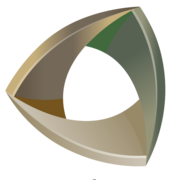
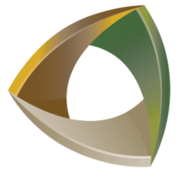
Actualicé logotipos.

diff --git a/tag/sesiones2.html b/tag/sesiones2.html
@@ -3,24 +3,25 @@
 <head>
     <meta charset="utf-8">
     <meta name="viewport" content="width=device-width, initial-scale=1, shrink-to-fit=no">
-    <meta name="description" content="<p>En la reunión de la Comisión Ejecutiva se trabajó en los avances de los proyectos en materia anticorrupción, así como los temas vistos en la Reunión de Consejeros de los Sistemas Locales Anticorrupción del país.</p>">
-    <meta name="keywords" content="[<Tag 'Comisión Ejecutiva'>, <Tag 'Sesiones'>]">
+    <meta name="description" content="Índice de publicaciones.">
+    <meta name="keywords" content="">
     <meta name="author" content="SEA Coahuila">
-    <meta itemprop="name" content="Cuarta Sesión Extraordinaria 2018 de la Comisión Ejecutiva">
-    <meta itemprop="description" content="<p>En la reunión de la Comisión Ejecutiva se trabajó en los avances de los proyectos en materia anticorrupción, así como los temas vistos en la Reunión de Consejeros de los Sistemas Locales Anticorrupción del país.</p>">
+    <meta itemprop="name" content="Índice - Sistema Anticorrupción del Estado de Coahuila de Zaragoza">
+    <meta itemprop="description" content="Índice de publicaciones.">
     <meta itemprop="image" content="http://www.seacoahuila.org.mx/theme/images/saec.png">
     <meta name="twitter:card" content="summary_large_image">
     <meta name="twitter:site" content="@sesaecoah">
-    <meta name="twitter:title" content="Cuarta Sesión Extraordinaria 2018 de la Comisión Ejecutiva">
-    <meta name="twitter:description" content="<p>En la reunión de la Comisión Ejecutiva se trabajó en los avances de los proyectos en materia anticorrupción, así como los temas vistos en la Reunión de Consejeros de los Sistemas Locales Anticorrupción del país.</p>">
+    <meta name="twitter:title" content="Índice - Sistema Anticorrupción del Estado de Coahuila de Zaragoza">
+    <meta name="twitter:description" content="Índice de publicaciones.">
     <meta name="twitter:image:src" content="http://www.seacoahuila.org.mx/theme/images/saec.png">
-    <meta property="og:title" content="Cuarta Sesión Extraordinaria 2018 de la Comisión Ejecutiva">
+    <meta property="og:title" content="Índice - Sistema Anticorrupción del Estado de Coahuila de Zaragoza">
     <meta property="og:type" content="article">
-    <meta property="og:url" content="comunicados/2018-06-20-reunion-comision-ejecutiva/">
+    <meta property="og:url" content="http://www.seacoahuila.org.mx/tag/sesiones2.html">
     <meta property="og:image" content="http://www.seacoahuila.org.mx/theme/images/saec.png">
-    <meta property="og:description" content="<p>En la reunión de la Comisión Ejecutiva se trabajó en los avances de los proyectos en materia anticorrupción, así como los temas vistos en la Reunión de Consejeros de los Sistemas Locales Anticorrupción del país.</p>">
+    <meta property="og:description" content="Índice de publicaciones.">
     <meta property="og:site_name" content="Sistema Anticorrupción del Estado de Coahuila de Zaragoza">
-    <title>Cuarta Sesión Extraordinaria 2018 de la Comisión Ejecutiva - Sistema Anticorrupción del Estado de Coahuila de Zaragoza</title>
+    <title>    Sesiones - Sistema Anticorrupción del Estado de Coahuila de Zaragoza
+</title>
     <link rel="shortcut icon" type="image/x-icon" href="http://www.seacoahuila.org.mx/favicon.ico">
     <link rel="icon" href="http://www.seacoahuila.org.mx/theme/images/icon-hires.png" sizes="192x192">
     <link rel="icon" href="http://www.seacoahuila.org.mx/theme/images/icon-normal.png" sizes="128x128">
@@ -97,68 +98,82 @@
             </div>
         </div>
     </nav>    <header>
-    <div class="header-content saec-header-bg">
-        <img src="http://www.seacoahuila.org.mx/theme/images/saec-300x255.png" alt="Sistema Anticorrupción del Estado de Coahuila de Zaragoza">
-        <script type="application/ld+json">
-        {
-            "@context": "http://schema.org",
-            "@type": "GovernmentOrganization",
-            "name": "Sistema Anticorrupción del Estado de Coahuila de Zaragoza",
-            "address": {
-                "@type": "PostalAddress",
-                "streetAddress": "Blvd. Luis Donaldo Colosio No. 703. Fracc. Valle Real.",
-                "addressLocality": "Saltillo",
-                "addressRegion": "Coahuila de Zaragoza",
-                "addressCountry": "MX",
-                "postalCode": "25205"
-            },
-            "email": "informacion@seacoahuila.org.mx",
-            "telephone": "+521 884 6881546",
-            "logo": {
-                "@type": "ImageObject",
-                "url": "http://www.seacoahuila.org.mx/theme/images/saec.png"
-            },
-            "url": "http://www.seacoahuila.org.mx"
-        }
-        </script>
-    </div>    </header>
+        <div class="header-content generic-header-bg">
+            <h1 class="header-text">
+                    Sesiones
+            </h1>
+        </div>
+    </header>
     <div class="container">
-        <article>
-            <script type="application/ld+json">
-            {
-                "@context": "http://schema.org",
-                "@type": "Article",
-                "publisher": {
-                    "@type": "Organization",
-                    "name": "Sistema Anticorrupción del Estado de Coahuila de Zaragoza",
-                    "logo": {
-                        "@type": "ImageObject",
-                        "url": "http://www.seacoahuila.org.mx/theme/images/saec.png"
-                    },
-                    "url": "http://www.seacoahuila.org.mx"
-                },
-                "author": "SEA Coahuila",
-                "name": "Cuarta Sesión Extraordinaria 2018 de la Comisión Ejecutiva",
-                "headline": "Cuarta Sesión Extraordinaria 2018 de la Comisión Ejecutiva",
-                "description": "<p>En la reunión de la Comisión Ejecutiva se trabajó en los avances de los proyectos en materia anticorrupción, así como los temas vistos en la Reunión de Consejeros de los Sistemas Locales Anticorrupción del país.</p>",
-                "dateCreated": "2018-06-20 20:00:00-05:00",
-                "datePublished": "2018-06-20 20:00:00-05:00",
-                "dateModified": "2018-07-13 10:30:00-05:00",
-                "image": "http://www.seacoahuila.org.mx/comunicados/2018-06-20-reunion-comision-ejecutiva/preview.jpg",
-                "url": "http://www.seacoahuila.org.mx/comunicados/2018-06-20-reunion-comision-ejecutiva/"
-            }
-            </script>
-            <!-- Articulo inicia -->
-            <h1 class="mt-4 mb-3">Cuarta Sesión Extraordinaria 2018 de la Comisión Ejecutiva</h1>
-            <p class="article-date">20 junio 2018</p>
-            <hr>
-<p>Se reunieron los integrantes de la Comisión Ejecutiva, <strong>Marcela Castañeda</strong> Secretaria Técnica de la Secretaría Ejecutiva del Sistema Anticorrupción del Estado de Coahuila, <strong>Lourdes de Koster, Juan Adolfo Von Bertrab, Carlos Rangel</strong> y <strong>Ana Yuri Solís,</strong> Consejeros de Participación Ciudadana del SEA.</p>
-<p>Como primer punto del orden del día, la Consejera Solís, expuso las facultades, atribuciones y alcances de la Comisión Ejecutiva, con el objetivo de dar un rumbo claro y certero a las actividades que se realizan.</p>
-<p>Otros temas de la reunión, fueron <strong>exponer los avances de los proyectos en materia anticorrupción,</strong> que desarrolla que cada uno de los integrantes de la Comisión, así como, analizar la metodología de la política anticorrupción del Estado de Coahuila. Esta última fue aprobada por todos los integrantes, misma que, por conducto de la Secretaría Técnica, será una propuesta para que sea analizada por el Comité Coordinador del Sistema.</p>
-<p>En asuntos generales, se trataron los temas vistos en la <strong>Reunión de Consejeros de los Sistemas Locales Anticorrupción del país,</strong> entre ellos, los acuerdos de las siguientes mesas de trabajo: <strong>Indicadores y metodologías de mapas de riesgos, plataforma digital nacional, servicio profesional de carrera, vinculación con municipios, comunicación, y asuntos jurídicos.</strong></p>
-<p><img class="img-fluid" src="foto-reunion-comision-ejecutiva.jpg" alt="Fotografía del evento"></p>
-            <!-- Articulo termina -->
-        </article>
+        <section class="index-content">
+                <!-- Articulos -->
+                <div class="card mb-4">
+                    <div class="card-body">
+                        <div class="row">
+                            <div class="col-lg-6">
+                                <a href="http://www.seacoahuila.org.mx/comunicados/2018-01-30-primera-sesion-ordinaria/">
+                                    <img class="img-fluid rounded" src="http://www.seacoahuila.org.mx/comunicados/2018-01-30-primera-sesion-ordinaria//preview.jpg" alt="Imagen previa">
+                                </a>
+                            </div>
+                            <div class="col-lg-6">
+                                <a href="http://www.seacoahuila.org.mx/comunicados/2018-01-30-primera-sesion-ordinaria/"><h2 class="card-title">Primera Sesión Ordinaria 2018 de la Comisión Ejecutiva</h2></a>
+                                <p>El 30 de enero 2018 se acordó continuar con la elaboración de la propuesta del programa de trabajo y se buscarán reuniones con los integrantes del Comité Coordinador para complementar el diagnóstico y establecer las directrices generales.</p>
+                            </div>
+                        </div>
+                    </div>
+                </div>
+                <div class="card mb-4">
+                    <div class="card-body">
+                        <div class="row">
+                            <div class="col-lg-6">
+                                <a href="http://www.seacoahuila.org.mx/comunicados/2018-01-22-sesion-ordinaria-organo-de-gobierno/">
+                                    <img class="img-fluid rounded" src="http://placehold.it/600x300" alt="Imagen previa">
+                                </a>
+                            </div>
+                            <div class="col-lg-6">
+                                <a href="http://www.seacoahuila.org.mx/comunicados/2018-01-22-sesion-ordinaria-organo-de-gobierno/"><h2 class="card-title">Sesión Ordinaria del Órgano de Gobierno</h2></a>
+                                <p>En Sesión Ordinaria del Órgano de Gobierno del Sistema Estatal Anticorrupción, fue aprobado por unanimidad de sus integrantes el Presupuesto de Egresos para el Ejercicio Fiscal 2018 de la Secretaría Ejecutiva.</p>
+                            </div>
+                        </div>
+                    </div>
+                </div>
+                <div class="card mb-4">
+                    <div class="card-body">
+                        <div class="row">
+                            <div class="col-lg-6">
+                                <a href="http://www.seacoahuila.org.mx/comunicados/2017-12-14-primera-sesion-ordinaria/">
+                                    <img class="img-fluid rounded" src="http://www.seacoahuila.org.mx/comunicados/2017-12-14-primera-sesion-ordinaria//preview.jpg" alt="Imagen previa">
+                                </a>
+                            </div>
+                            <div class="col-lg-6">
+                                <a href="http://www.seacoahuila.org.mx/comunicados/2017-12-14-primera-sesion-ordinaria/"><h2 class="card-title">Primera Sesión Ordinaria 2017</h2></a>
+                                <p>El objetivo de la reunión fue proponer algunas líneas generales de trabajo de la Comisión, así como establecer un calendario de sesiones ordinarias y extraordinarias para el año 2018.</p>
+                            </div>
+                        </div>
+                    </div>
+                </div>
+                <!-- Paginacion -->
+                <nav>
+                    <ul class="pagination justify-content-center">
+                        <li class="page-item">
+                            <a class="page-link" aria-label="Previous" href="http://www.seacoahuila.org.mx/tag/sesiones.html">
+                                <span aria-hidden="true">&laquo;</span>
+                                <span class="sr-only">Anterior</span>
+                            </a>
+                        </li>
+                        <li class="page-item">
+                            <a class="page-link" href="http://www.seacoahuila.org.mx/tag/sesiones.html">
+                                1
+                            </a>
+                        </li>
+                        <li class="page-item">
+                            <a class="page-link" href="http://www.seacoahuila.org.mx/tag/sesiones2.html">
+                                2
+                            </a>
+                        </li>
+                    </ul>
+                </nav>
+        </section>
     </div>
     <footer class="py-5 sea-bg-gray-dark">
         <div class="container">

diff --git a/tag/sesiones.html b/tag/sesiones.html
@@ -126,6 +126,21 @@
                     <div class="card-body">
                         <div class="row">
                             <div class="col-lg-6">
+                                <a href="http://www.seacoahuila.org.mx/comunicados/2018-06-20-reunion-comision-ejecutiva/">
+                                    <img class="img-fluid rounded" src="http://www.seacoahuila.org.mx/comunicados/2018-06-20-reunion-comision-ejecutiva//preview.jpg" alt="Imagen previa">
+                                </a>
+                            </div>
+                            <div class="col-lg-6">
+                                <a href="http://www.seacoahuila.org.mx/comunicados/2018-06-20-reunion-comision-ejecutiva/"><h2 class="card-title">Cuarta Sesión Extraordinaria 2018 de la Comisión Ejecutiva</h2></a>
+                                <p>En la reunión de la Comisión Ejecutiva se trabajó en los avances de los proyectos en materia anticorrupción, así como los temas vistos en la Reunión de Consejeros de los Sistemas Locales Anticorrupción del país.</p>
+                            </div>
+                        </div>
+                    </div>
+                </div>
+                <div class="card mb-4">
+                    <div class="card-body">
+                        <div class="row">
+                            <div class="col-lg-6">
                                 <a href="http://www.seacoahuila.org.mx/comunicados/2018-05-24-tercera-sesion-extraordinaria-comision-ejecutiva/">
                                     <img class="img-fluid rounded" src="http://www.seacoahuila.org.mx/comunicados/2018-05-24-tercera-sesion-extraordinaria-comision-ejecutiva//preview.jpg" alt="Imagen previa">
                                 </a>
@@ -212,57 +227,23 @@
                         </div>
                     </div>
                 </div>
-                <div class="card mb-4">
-                    <div class="card-body">
-                        <div class="row">
-                            <div class="col-lg-6">
-                                <a href="http://www.seacoahuila.org.mx/comunicados/2018-01-30-primera-sesion-ordinaria/">
-                                    <img class="img-fluid rounded" src="http://www.seacoahuila.org.mx/comunicados/2018-01-30-primera-sesion-ordinaria//preview.jpg" alt="Imagen previa">
-                                </a>
-                            </div>
-                            <div class="col-lg-6">
-                                <a href="http://www.seacoahuila.org.mx/comunicados/2018-01-30-primera-sesion-ordinaria/"><h2 class="card-title">Primera Sesión Ordinaria 2018 de la Comisión Ejecutiva</h2></a>
-                                <p>El 30 de enero 2018 se acordó continuar con la elaboración de la propuesta del programa de trabajo y se buscarán reuniones con los integrantes del Comité Coordinador para complementar el diagnóstico y establecer las directrices generales.</p>
-                            </div>
-                        </div>
-                    </div>
-                </div>
-                <div class="card mb-4">
-                    <div class="card-body">
-                        <div class="row">
-                            <div class="col-lg-6">
-                                <a href="http://www.seacoahuila.org.mx/comunicados/2018-01-22-sesion-ordinaria-organo-de-gobierno/">
-                                    <img class="img-fluid rounded" src="http://placehold.it/600x300" alt="Imagen previa">
-                                </a>
-                            </div>
-                            <div class="col-lg-6">
-                                <a href="http://www.seacoahuila.org.mx/comunicados/2018-01-22-sesion-ordinaria-organo-de-gobierno/"><h2 class="card-title">Sesión Ordinaria del Órgano de Gobierno</h2></a>
-                                <p>En Sesión Ordinaria del Órgano de Gobierno del Sistema Estatal Anticorrupción, fue aprobado por unanimidad de sus integrantes el Presupuesto de Egresos para el Ejercicio Fiscal 2018 de la Secretaría Ejecutiva.</p>
-                            </div>
-                        </div>
-                    </div>
-                </div>
-                <div class="card mb-4">
-                    <div class="card-body">
-                        <div class="row">
-                            <div class="col-lg-6">
-                                <a href="http://www.seacoahuila.org.mx/comunicados/2017-12-14-primera-sesion-ordinaria/">
-                                    <img class="img-fluid rounded" src="http://www.seacoahuila.org.mx/comunicados/2017-12-14-primera-sesion-ordinaria//preview.jpg" alt="Imagen previa">
-                                </a>
-                            </div>
-                            <div class="col-lg-6">
-                                <a href="http://www.seacoahuila.org.mx/comunicados/2017-12-14-primera-sesion-ordinaria/"><h2 class="card-title">Primera Sesión Ordinaria 2017</h2></a>
-                                <p>El objetivo de la reunión fue proponer algunas líneas generales de trabajo de la Comisión, así como establecer un calendario de sesiones ordinarias y extraordinarias para el año 2018.</p>
-                            </div>
-                        </div>
-                    </div>
-                </div>
                 <!-- Paginacion -->
                 <nav>
                     <ul class="pagination justify-content-center">
                         <li class="page-item">
                             <a class="page-link" href="http://www.seacoahuila.org.mx/tag/sesiones.html">
                                 1
+                            </a>
+                        </li>
+                        <li class="page-item">
+                            <a class="page-link" href="http://www.seacoahuila.org.mx/tag/sesiones2.html">
+                                2
+                            </a>
+                        </li>
+                        <li class="page-item">
+                            <a class="page-link" aria-label="Next" href="http://www.seacoahuila.org.mx/tag/sesiones2.html">
+                                <span aria-hidden="true">&raquo;</span>
+                                <span class="sr-only">Siguiente</span>
                             </a>
                         </li>
                     </ul>

diff --git a/tag/reuniones.html b/tag/reuniones.html
@@ -126,21 +126,6 @@
                     <div class="card-body">
                         <div class="row">
                             <div class="col-lg-6">
-                                <a href="http://www.seacoahuila.org.mx/comunicados/2018-06-20-reunion-comision-ejecutiva/">
-                                    <img class="img-fluid rounded" src="http://www.seacoahuila.org.mx/comunicados/2018-06-20-reunion-comision-ejecutiva//preview.jpg" alt="Imagen previa">
-                                </a>
-                            </div>
-                            <div class="col-lg-6">
-                                <a href="http://www.seacoahuila.org.mx/comunicados/2018-06-20-reunion-comision-ejecutiva/"><h2 class="card-title">Cuarta Sesión Extraordinaria 2018 de la Comisión Ejecutiva</h2></a>
-                                <p>En la reunión de la Comisión Ejecutiva se trabajó en los avances de los proyectos en materia anticorrupción, así como los temas vistos en la Reunión de Consejeros de los Sistemas Locales Anticorrupción del país.</p>
-                            </div>
-                        </div>
-                    </div>
-                </div>
-                <div class="card mb-4">
-                    <div class="card-body">
-                        <div class="row">
-                            <div class="col-lg-6">
                                 <a href="http://www.seacoahuila.org.mx/comunicados/2018-06-12-reunion-comite-coordinador-organo-gobierno/">
                                     <img class="img-fluid rounded" src="http://www.seacoahuila.org.mx/comunicados/2018-06-12-reunion-comite-coordinador-organo-gobierno//preview.jpg" alt="Imagen previa">
                                 </a>
@@ -223,6 +208,21 @@
                             <div class="col-lg-6">
                                 <a href="http://www.seacoahuila.org.mx/comunicados/2018-04-03-reunion-union-organismos-empresariales-coahuila-sureste/"><h2 class="card-title">Proponen acciones contra la corrupción integrantes de Unión de Organismos Empresariales Coahuila-Sureste</h2></a>
                                 <p>Manifestaron su preocupación por la prevalencia de posibles situaciones irregulares en los procesos y trámites, que afectan el desarrollo de la economía de la región y la entidad.</p>
+                            </div>
+                        </div>
+                    </div>
+                </div>
+                <div class="card mb-4">
+                    <div class="card-body">
+                        <div class="row">
+                            <div class="col-lg-6">
+                                <a href="http://www.seacoahuila.org.mx/comunicados/2018-03-12-reunion-tribunal-justicia-administrativa/">
+                                    <img class="img-fluid rounded" src="http://www.seacoahuila.org.mx/comunicados/2018-03-12-reunion-tribunal-justicia-administrativa//preview.jpg" alt="Imagen previa">
+                                </a>
+                            </div>
+                            <div class="col-lg-6">
+                                <a href="http://www.seacoahuila.org.mx/comunicados/2018-03-12-reunion-tribunal-justicia-administrativa/"><h2 class="card-title">Analiza Comité Coordinador propuesta de lineamientos que regularán actuación del SEA</h2></a>
+                                <p>Integrantes del Comité Coordinador del SEA Coahuila se reunieron para analizar la propuesta de lineamientos para la coordinación y funcionamiento así como el cronograma de actividades.</p>
                             </div>
                         </div>
                     </div>

diff --git a/tag/reuniones2.html b/tag/reuniones2.html
@@ -111,21 +111,6 @@
                     <div class="card-body">
                         <div class="row">
                             <div class="col-lg-6">
-                                <a href="http://www.seacoahuila.org.mx/comunicados/2018-03-12-reunion-tribunal-justicia-administrativa/">
-                                    <img class="img-fluid rounded" src="http://www.seacoahuila.org.mx/comunicados/2018-03-12-reunion-tribunal-justicia-administrativa//preview.jpg" alt="Imagen previa">
-                                </a>
-                            </div>
-                            <div class="col-lg-6">
-                                <a href="http://www.seacoahuila.org.mx/comunicados/2018-03-12-reunion-tribunal-justicia-administrativa/"><h2 class="card-title">Analiza Comité Coordinador propuesta de lineamientos que regularán actuación del SEA</h2></a>
-                                <p>Integrantes del Comité Coordinador del SEA Coahuila se reunieron para analizar la propuesta de lineamientos para la coordinación y funcionamiento así como el cronograma de actividades.</p>
-                            </div>
-                        </div>
-                    </div>
-                </div>
-                <div class="card mb-4">
-                    <div class="card-body">
-                        <div class="row">
-                            <div class="col-lg-6">
                                 <a href="http://www.seacoahuila.org.mx/comunicados/2018-02-28-reunion-auditoria-superior-estado/">
                                     <img class="img-fluid rounded" src="http://www.seacoahuila.org.mx/comunicados/2018-02-28-reunion-auditoria-superior-estado//preview.jpg" alt="Imagen previa">
                                 </a>

diff --git a/tags.html b/tags.html
@@ -109,9 +109,9 @@
             <li><a href="http://www.seacoahuila.org.mx/tag/consejo-de-participacion-ciudadana.html">Consejo de Participación Ciudadana</a> (18)</li>
             <li><a href="http://www.seacoahuila.org.mx/tag/organo-de-gobierno.html">Órgano de Gobierno</a> (4)</li>
             <li><a href="http://www.seacoahuila.org.mx/tag/presentaciones.html">Presentaciones</a> (11)</li>
-            <li><a href="http://www.seacoahuila.org.mx/tag/reuniones.html">Reuniones</a> (13)</li>
+            <li><a href="http://www.seacoahuila.org.mx/tag/reuniones.html">Reuniones</a> (12)</li>
             <li><a href="http://www.seacoahuila.org.mx/tag/secretaria-ejecutiva.html">Secretaría Ejecutiva</a> (17)</li>
-            <li><a href="http://www.seacoahuila.org.mx/tag/sesiones.html">Sesiones</a> (10)</li>
+            <li><a href="http://www.seacoahuila.org.mx/tag/sesiones.html">Sesiones</a> (11)</li>
         </ul>
     </div>
     </div>

diff --git a/comunicados/2018-03-15-segunda-sesion-extraordinaria-comision-ejecutiva/index.html b/comunicados/2018-03-15-segunda-sesion-extraordinaria-comision-ejecutiva/index.html
@@ -4,7 +4,7 @@
     <meta charset="utf-8">
     <meta name="viewport" content="width=device-width, initial-scale=1, shrink-to-fit=no">
     <meta name="description" content="<p>En la que se dió seguimiento al diseño y ejecución de los objetivos estratégicos y líneas de acción planteados en el Programa de Trabajo.</p>">
-    <meta name="keywords" content="[<Tag 'Sesiones'>, <Tag 'Comisión Ejecutiva'>]">
+    <meta name="keywords" content="[<Tag 'Comisión Ejecutiva'>, <Tag 'Sesiones'>]">
     <meta name="author" content="SEA Coahuila">
     <meta itemprop="name" content="Segunda Sesión Extraordinaria 2018 de la Comisión Ejecutiva">
     <meta itemprop="description" content="<p>En la que se dió seguimiento al diseño y ejecución de los objetivos estratégicos y líneas de acción planteados en el Programa de Trabajo.</p>">
